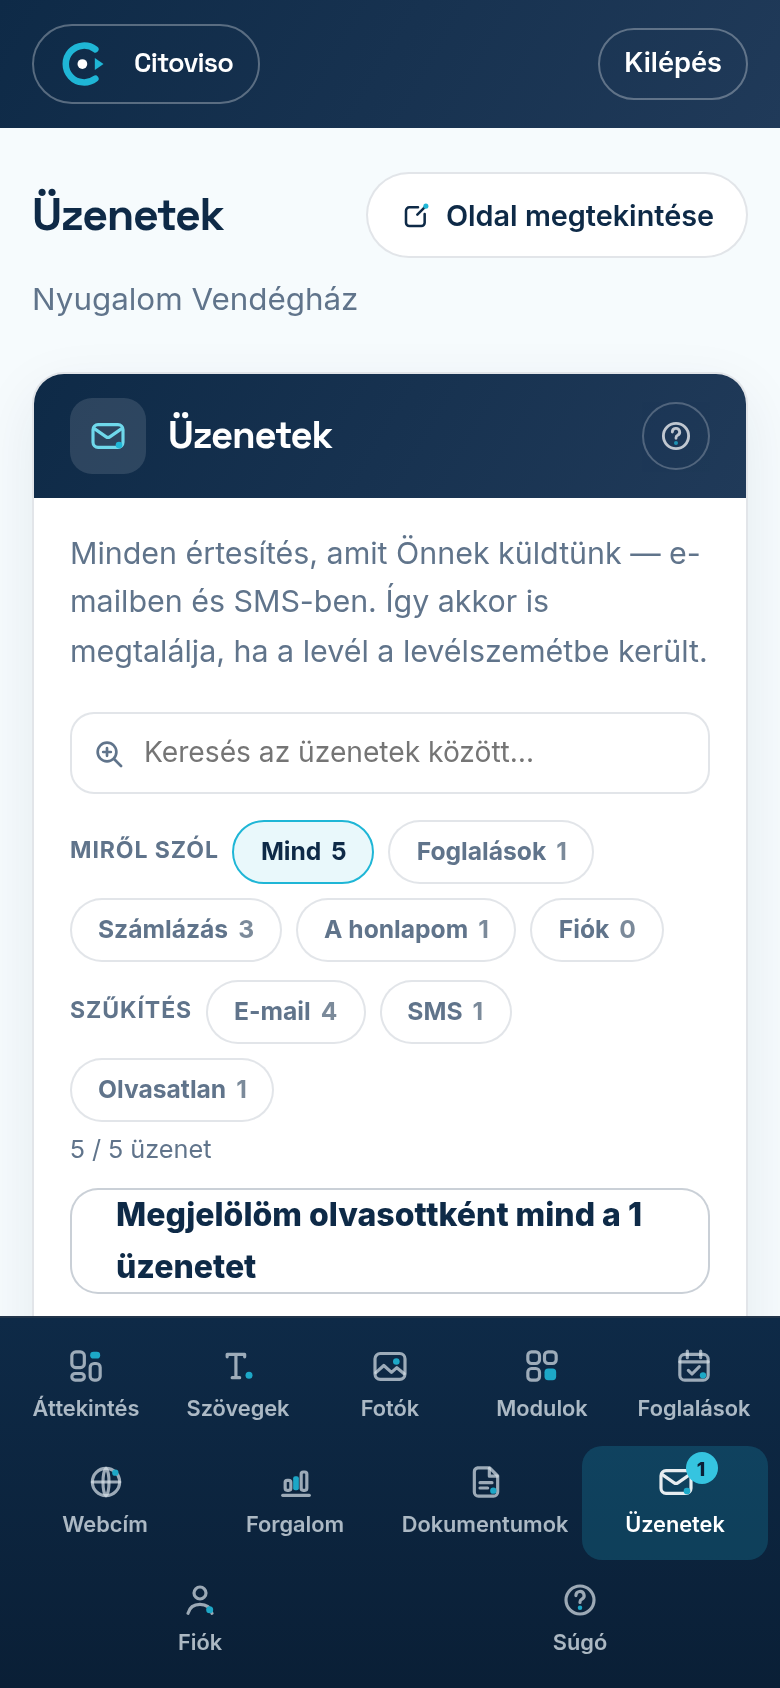
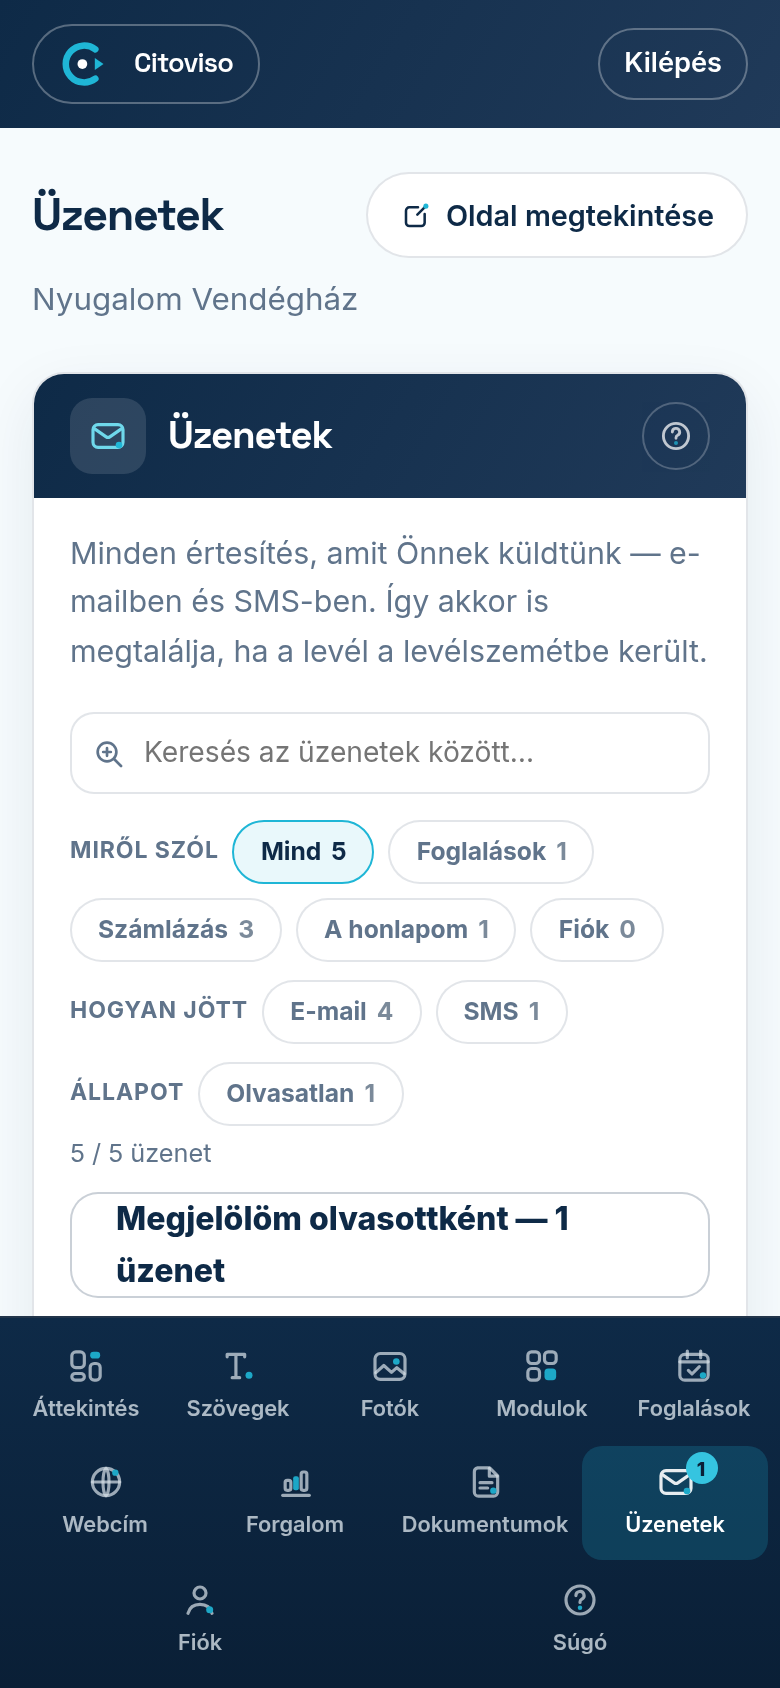
docs(kb): a súgó a RÉGI feliratokat idézte — az ügy-nézet és az olvasatlan-szabály bevezetve
A `kb-check` zöld volt, mert horgonyt és kép-frissességet mér, nem IDÉZETET. A cikk
közben három olyan feliratot idézett, ami már nem létezik („Mind olvasott (2)”,
„A szűrt 2 olvasott”, „Szűkítés”), és egy állítása MÁR AZ ELSŐ KÖR ÓTA hamis volt:
„Az »E-mail« és az »SMS« gombon nincs darabszám” — pedig azóta van.

Javítva a FELÜLET ELLEN, egyesével (nem sed-del: a gépies csere a súgón háromszor
rontott el olyat, amit kézzel nem rontottam volna):
· új szakasz az ÜGY-nézetről (egy ügy = egy sor, a nyitó megnevezi a lépésszámot,
  a találat-szám ÜZENETET számol, és a kereső a becsukott ügy lépésére is talál);
· kimondva, hogy a TÚLHALADOTT üzenet nem számít olvasatlannak — a menü száma azt
  mutatja, mennyi vár még a tulajra, nem azt, hány levelet küldtünk valaha;
· két sor helyett HÁROM („Miről szól” · „Hogyan jött” · „Állapot”);
· minden gombon ott a darabszám, és a 0 előre megmondja, hogy üres lista jön;
· az olvasottnak jelölő gomb IGÉS felirata + a megerősítő lépés leírása.

⚠ A KB-őr saját magam ellen is dolgozott: a félkövér idézetbe beleégettem egy
konkrét számot („— 2 üzenet”), a forrásban viszont helyőrző áll — label-drift hibát
kaptam rá, és csak az állandó részt idézem.

Claude-Session: https://claude.ai/code/session_01Rc6K65QxrVtBmrssUasoEC

Changed region(s): [[0.0923, 0.5853, 0.8308, 0.7701]]

diff --git a/kb/entries/admin-messages/entry.hu.md b/kb/entries/admin-messages/entry.hu.md
@@ -62,6 +62,23 @@ egymás utáni fordulatai. Hogy ne kelljen kitalálnia, melyik érvényes még:
 A túlhaladott üzenetek **nem tűnnek el**: megnyithatja és elolvashatja őket, csak azt
 jelezzük, hogy már nem ezek írják le a fiókja mai állapotát.
 
+### Egy ügy — egy sor
+
+Egy hosszabb ügy (például egy fizetési emlékeztető-sorozat) **nem foglal el 10 sort** a
+listában. A listában a **legfrissebb** üzenete áll, alatta pedig egy nyitó, ami megmondja,
+hány korábbi lépés tartozik hozzá — például:
+
+> ▾ Ugyanennek az ügynek a korábbi 44 lépése — előfizetés
+
+Erre koppintva **kinyílnak a lépések** (behúzva, az ügyhöz kötve), és a nyitó felirata
+„▴ Korábbi lépések elrejtése”-re vált. Semmi nem vész el: a lista fölötti szám továbbra is
+**az összes üzenetet** számolja, nem a sorokat, és a **kereső is megtalálja** azt, ami egy
+becsukott ügy lépésében szerepel.
+
+Csak a valódi ügyek csukódnak össze: az előfizetés fordulatai, a többnyelvű változat
+állapota és **egy adott** foglalási kérés fordulatai. A számlaértesítők külön sorok
+maradnak — egy új számla nem teszi valótlanná a régit.
+
 ### Miért látok egyszerre több zöld címkét?
 
 Mert **több szál is fut egyszerre**, és mindegyiknek megvan a maga legfrissebb üzenete.
@@ -85,13 +102,20 @@ A bal oldali menüben (telefonon az alsó sávban) az **„Üzenetek”** felira
 szám jelzi, hány olvasatlan üzenete van. A listában az olvasatlan sorok vastagabb betűvel
 és színes kerettel emelkednek ki.
 
-Egy üzenetre koppintva az helyben kinyílik, és egyben olvasottá is válik. Ha egyszerre
-akar többet olvasottnak jelölni, arra a lista fölötti gomb való — az **csak arra hat, ami
-éppen a szűrés szerint a listában van** (lásd lentebb: *A „Mind olvasott” gomb*).
+⚠ **A túlhaladott üzenet NEM számít olvasatlannak.** Ha egy értesítőt egy későbbi már
+felülírt (például a „Honlapja felfüggesztve” sort a „Honlapja újra elérhető”), azt a
+rendszer **lezárt ügynek** tekinti, és nem riaszt rá. Így a menüben látható szám azt
+mutatja, **mennyi vár még Önre** — nem azt, hány levelet küldtünk valaha.
+
+Egy üzenetre koppintva az helyben kinyílik, és egyben olvasottá is válik. Minden soron ott
+a **„Megnyitom ▾”** jelzés, nyitott állapotban **„Bezárom ▴”**. Ha egyszerre akar többet
+olvasottnak jelölni, arra a lista fölötti gomb való — az **csak arra hat, ami éppen a
+szűrés szerint a listában van** (lásd lentebb: *Az olvasottnak jelölő gomb*).
 
 ## Szűrés és keresés
 
-A kereső alatt **két sor gomb** áll, mert két külön kérdést tesznek fel.
+A kereső alatt **három sor gomb** áll, mert három külön kérdést tesznek fel: *miről szól*,
+*hogyan jött* és *milyen állapotban van*. A három **együtt** hat.
 
 ### „Miről szól” — a téma
 
@@ -116,16 +140,22 @@ ha rákoppintana — vagyis már számol az alatta beállított szűkítéssel i
 **„Olvasatlan”** be van kapcsolva, a „Számlázás” melletti szám az olvasatlan számlázási
 üzenetek darabszáma.
 
-### „Szűkítés” — a csatorna és az olvasottság
+### „Hogyan jött” — a csatorna
 
 - **„E-mail”** — csak a leveleink.
 - **„SMS”** — csak a szöveges üzenetek.
-- **„Olvasatlan”** — amit még nem nyitott meg.
+
+### „Állapot”
+
+- **„Olvasatlan”** — ami még vár Önre.
 
 Ezek a gombok **együtt működnek a témával**: a „Számlázás” és az „Olvasatlan” egyszerre
 is bekapcsolható, így csak az olvasatlan számlázási üzeneteket látja. Az aktív gombra
-újra koppintva kikapcsolja. Az „E-mail” és az „SMS” gombon nincs darabszám, az
-**„Olvasatlan”** gombon van.
+újra koppintva kikapcsolja.
+
+**Mindegyik gombon ott a darabszám** — a téma-gombokon, a csatorna-gombokon és az
+„Olvasatlan”-on is. Ha valamelyik mellett **0** áll, az előre megmondja, hogy üres listát
+kapna: nem kell rákoppintania, hogy kiderüljön.
 
 ⚠ **Az „Olvasatlan” gomb száma és a menüben látható szám két különböző dolog.** A
 menüben (telefonon az alsó sávban) az „Üzenetek” melletti szám a **teljes** postaládája
@@ -137,16 +167,20 @@ a gomb azt, mennyit kapna most.
 A lista fölött egy sor mindig kiírja, **hány üzenetet lát az összesből, és mire szűrt** —
 például „77 / 114 üzenet — téma: Számlázás”.
 
-### A „Mind olvasott” gomb
+### Az olvasottnak jelölő gomb
 
 A gomb **csak arra hat, ami éppen a listában van** — és a feliratában álló szám azt mondja
 meg, **hány OLVASATLAN üzenetet érint** (nem azt, hány sort lát):
 
-- Szűrés nélkül „Mind olvasott (2)” áll rajta, ha az egész postaládában 2 olvasatlan van —
-  akkor is, ha közben 5 üzenet látszik a listában. Ez a szám ugyanaz, ami az **„Olvasatlan”**
-  chipen és az Üzenetek fül jelvényén szerepel.
-- Szűrt listán „A szűrt 2 olvasott” — csak a szűrésnek megfelelő üzeneteket érinti.
-  A szűrésen kívüli olvasatlanok érintetlenül maradnak.
+- Szűrés nélkül a **„Megjelölöm olvasottként”** felirat után a darabszám áll (például
+  „— 2 üzenet”), akkor is, ha közben 5 üzenet látszik a listában. Ez a szám ugyanaz, ami
+  az **„Olvasatlan”** gombon és az Üzenetek fül jelvényén szerepel.
+- Szűrt listán a felirat kimondja, hogy **„a szűrt”** üzenetekre hat — csak a szűrésnek
+  megfelelőeket érinti, a szűrésen kívüli olvasatlanok érintetlenül maradnak.
+
+**Egy koppintásra nem történik semmi visszafordíthatatlan:** a gomb előbb **rákérdez**
+(„Megjelöli olvasottként a következő 2 üzenetet?”), és a kérdés alatt megmondja, hogy a
+teljes postaládára hat-e, vagy csak a most szűrt listára. A **„Mégsem”** mindent úgy hagy.
 
 ⚠ A gomb megnyomása után a lista *visszanő*: ha az **„Olvasatlan”** szűkítés be volt
 kapcsolva, az magától kikapcsol (különben az imént olvasottá tett üzenetek eltűnnének a szeme
